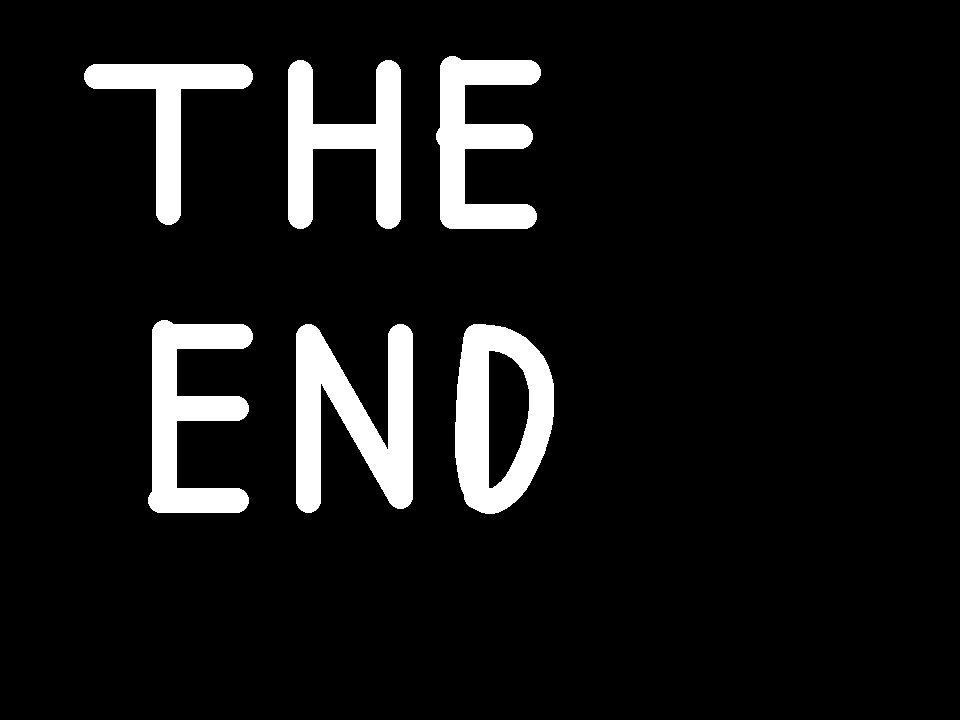
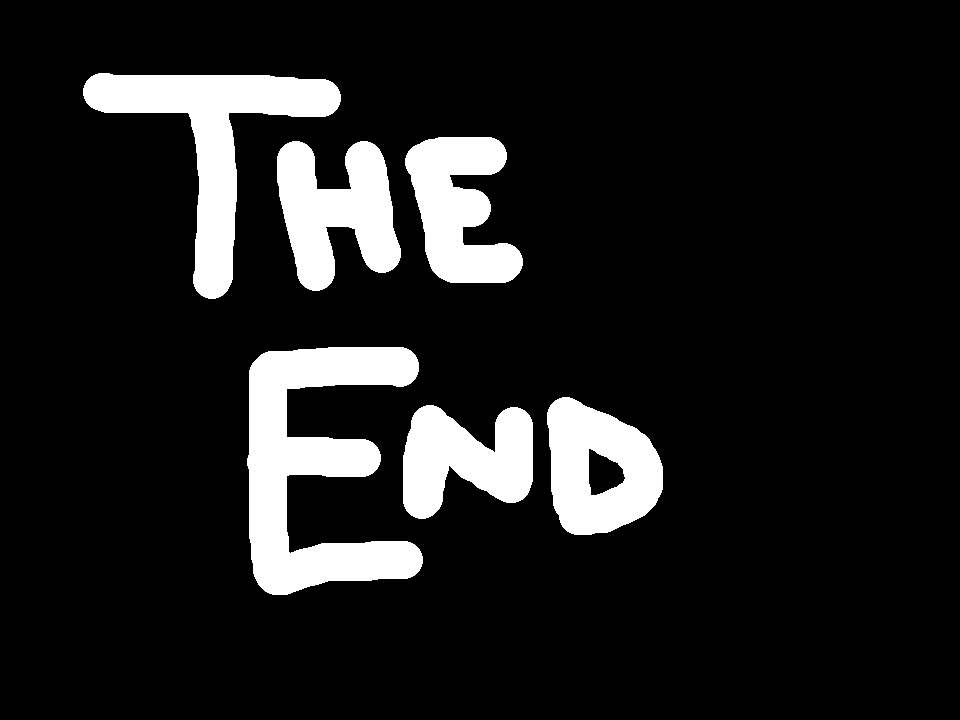
endscreen homescreen stuff

Changed region(s): [[0.0625, 0.0611, 0.6875, 0.825]]

diff --git a/maps/default.tsx b/maps/default.tsx
@@ -1,5 +1,5 @@
 <?xml version="1.0" encoding="UTF-8"?>
-<tileset version="1.2" tiledversion="1.3.1" name="default" tilewidth="1024" tileheight="1024" tilecount="207" columns="0">
+<tileset version="1.2" tiledversion="1.3.1" name="default" tilewidth="1024" tileheight="1024" tilecount="209" columns="0">
  <grid orientation="orthogonal" width="1" height="1"/>
  <tile id="4">
   <image width="64" height="64" source="../graphics/tiles/box.png"/>
@@ -613,13 +613,19 @@
  <tile id="233">
   <image width="238" height="175" source="../graphics/entity/Bulletin_Board.png"/>
  </tile>
- <tile id="234">
-  <image width="960" height="720" source="../graphics/buttons/End_screen.png"/>
+ <tile id="241">
+  <image width="996" height="798" source="../graphics/titlelogo.png"/>
  </tile>
- <tile id="238">
+ <tile id="242">
   <image width="480" height="180" source="../graphics/buttons/Exit.png"/>
  </tile>
- <tile id="239">
+ <tile id="243">
   <image width="468" height="168" source="../graphics/buttons/Start.png"/>
+ </tile>
+ <tile id="246">
+  <image width="600" height="140" source="../graphics/buttons/Instructions.png"/>
+ </tile>
+ <tile id="247">
+  <image width="960" height="720" source="../graphics/buttons/End_screen.png"/>
  </tile>
 </tileset>
